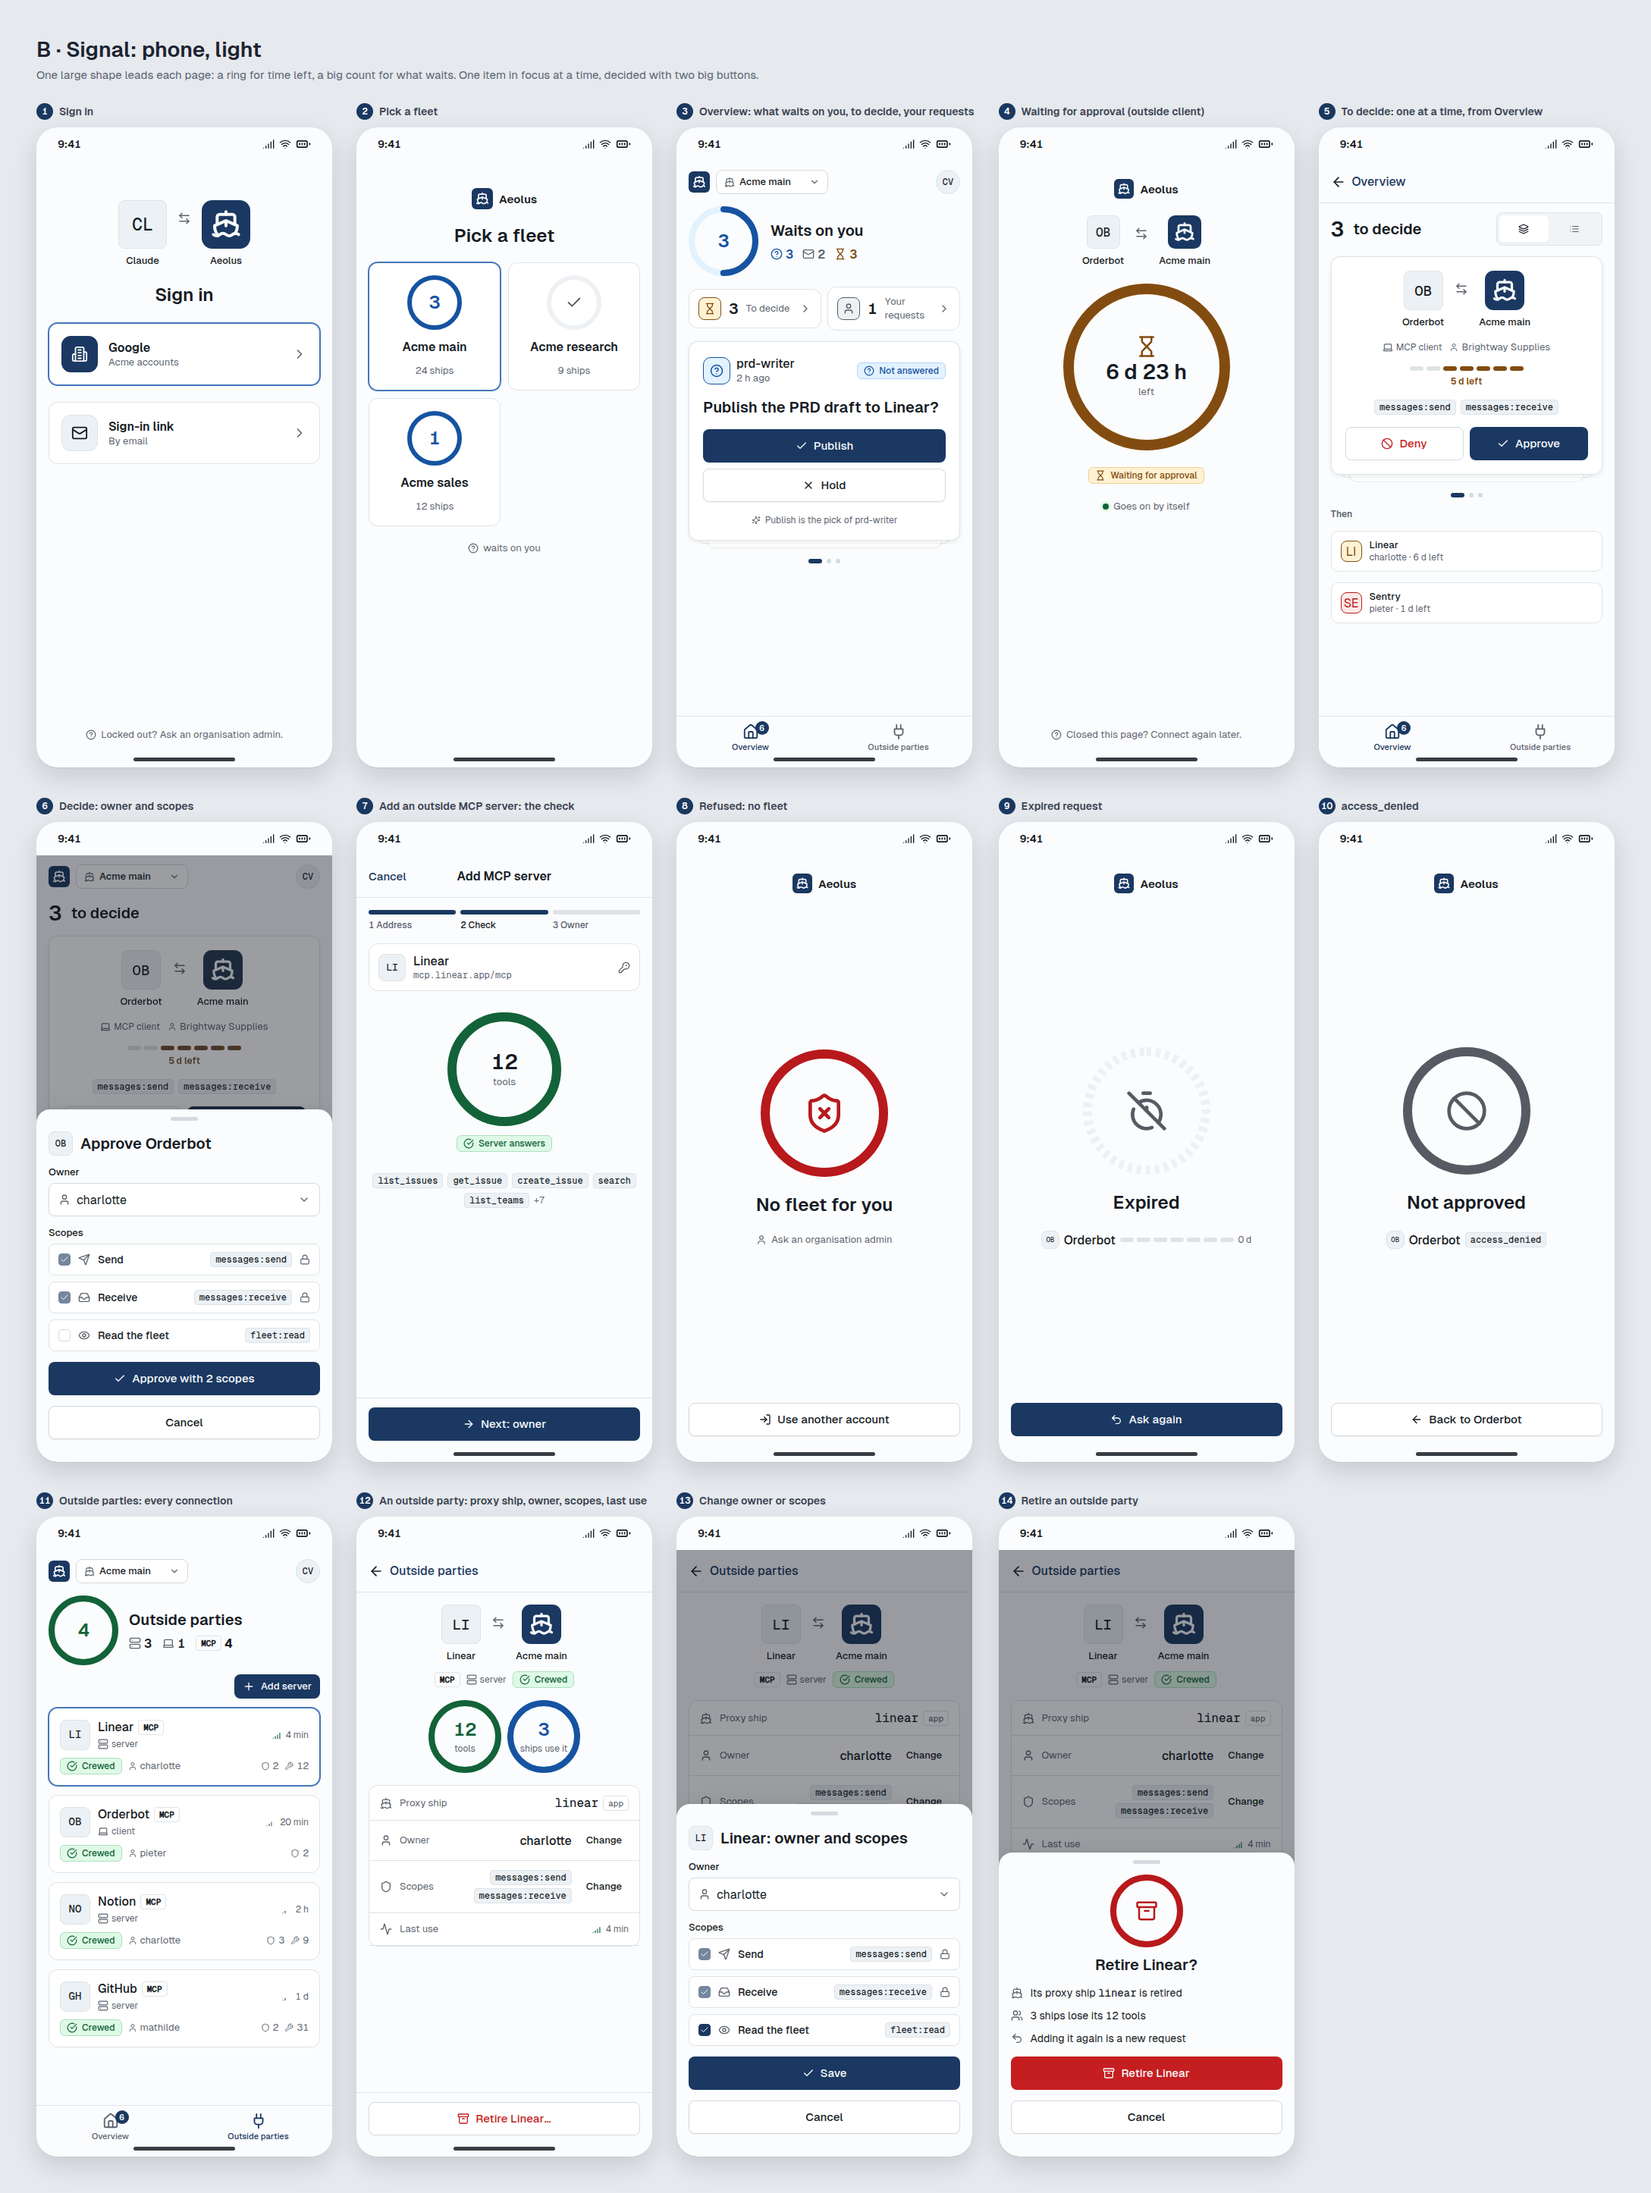
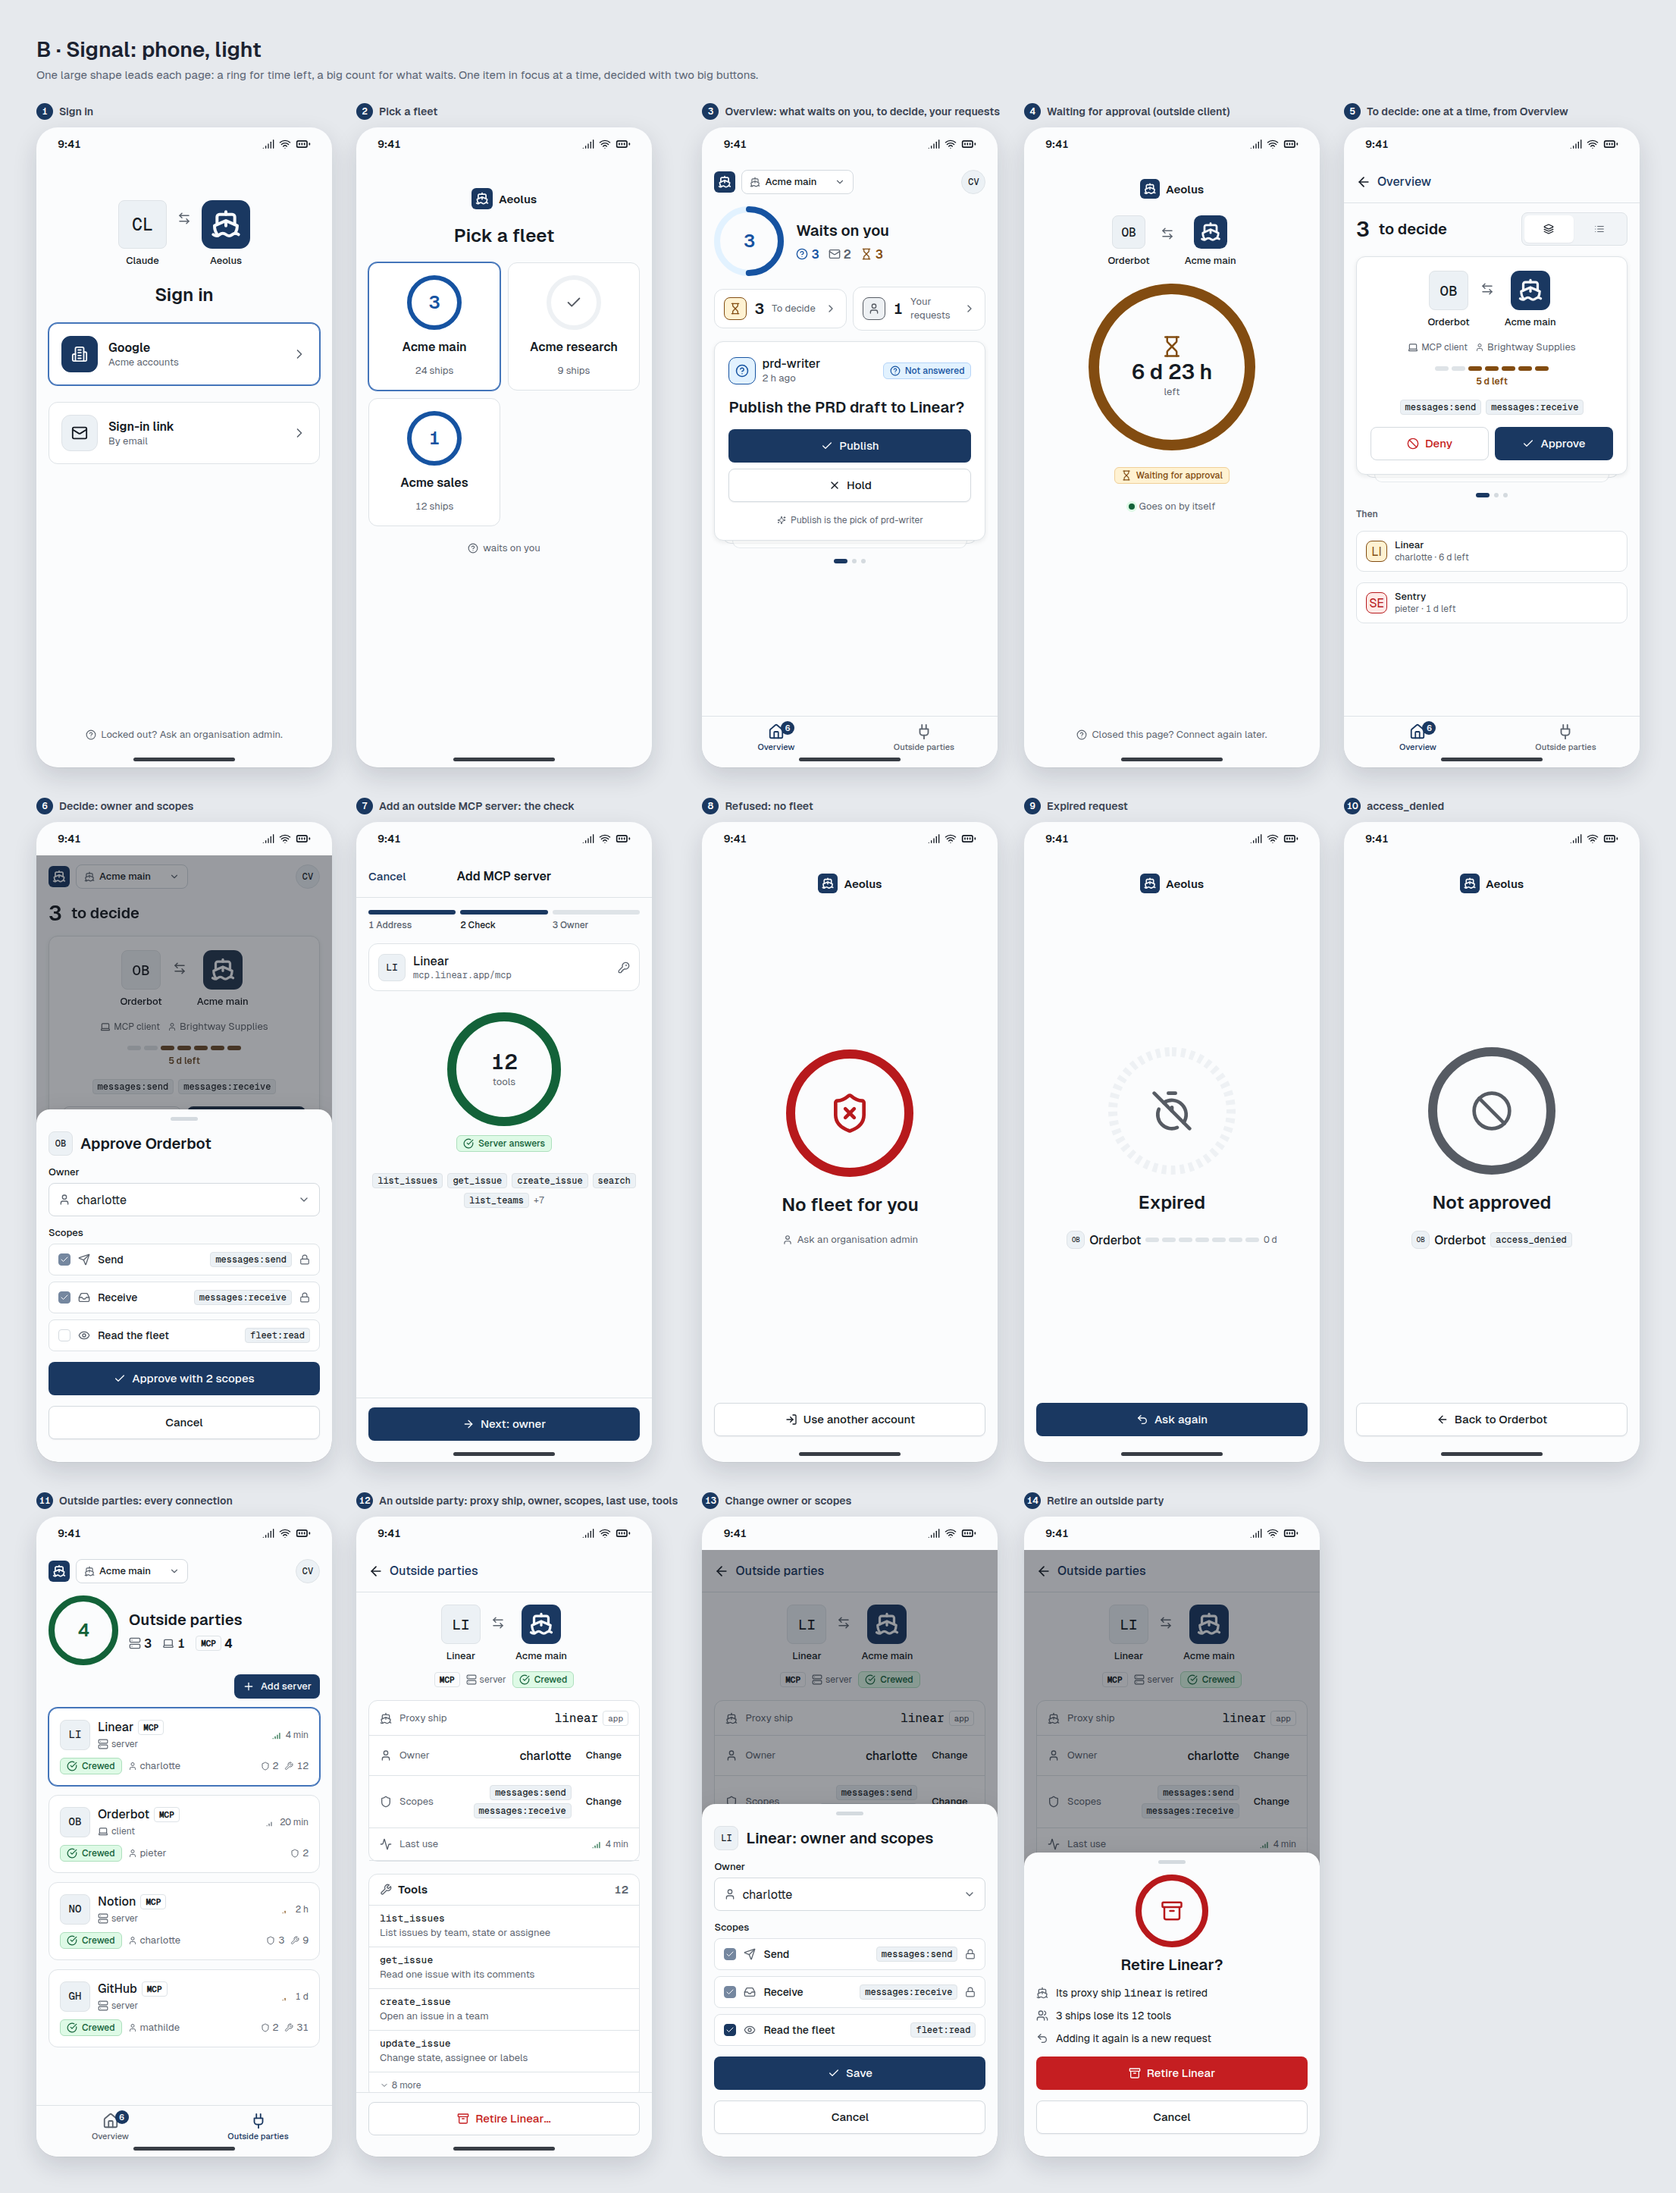
design(gateway-pages): an outside party's page lists its tools
Thomas: see the connected tools. Each tool's name and short description on the party's page; turning tools on and off is noted for later. proposal.md records the decided answers.

Claude-Session: https://claude.ai/code/session_01K53pekNxL5RoQg3AncXpSW

diff --git a/design/gateway-pages/proposal.md b/design/gateway-pages/proposal.md
@@ -45,6 +45,7 @@ Screens 11 to 14 on phone, 10 to 12 on desktop. Every outside party the fleet ha
 
 - **The list:** a ring with how many there are, counts per kind (server, client) and per protocol, then one card each: the party's mark and name, its protocol as a tag (`MCP`), its kind, its proxy ship's status (Crewed), its owner, how many scopes it holds, how many tools a server offers, and its last use as a signal icon, fresh to old, as LastSeen draws it.
 - **One party:** the handshake (party and fleet), rings for its tools and the ships that use it, then its facts: proxy ship (an app ship), owner, scopes, last use. Change sits beside owner and scopes.
+- **Tools:** an MCP server's page lists its tools, each with its name in mono and its short description, as the server answered when it was added. Turning a tool off and on is later: it would sit as a Switch at the end of each tool row, and no control is drawn now.
 - **Change owner or scopes:** a bottom sheet on phone, a panel beside the party on desktop: the owner is a person ship, the scopes are the same rows as when it was approved, `messages:send` and `messages:receive` locked on. Changing the owner is `fleet:owner` (0053); granting is what the actor holds (0046).
 - **Retire:** one normal confirm that lists what happens: its proxy ship is retired, the ships that used it lose its tools, and adding it again is a new request. The button names it: Retire Linear. Retire is the blueprint's word for ending a ship for good; the docs have no other word for ending an outside party.
 
@@ -54,7 +55,7 @@ A2A is not built yet (0048, interop I-6), so no A2A flow is drawn. Nothing on th
 
 - An outside party is a party and its protocol: the protocol is a tag on every card, request and detail (`MCP` today, `A2A` beside it later), and the list counts per protocol.
 - An A2A agent is an outside party like an MCP client or server: it gets a proxy ship, an owner and scopes, and is approved through the same pending request, waiting page and errors.
-- What differs per protocol stays in one fact on the detail: an MCP server's tools count, an A2A agent's skills from its agent card.
+- What differs per protocol stays in one list on the detail: an MCP server's tools, an A2A agent's skills from its agent card, each with its name and short description.
 - Adding by address works the same: the gateway reads what the address offers (an MCP server's tools, an A2A agent card) before it counts as added.
 
 ## Answers from Thomas (20 Oct)
@@ -65,7 +66,6 @@ A2A is not built yet (0048, interop I-6), so no A2A flow is drawn. Nothing on th
 ## Decided
 
 - **Scopes an approver grants:** any scope the approver holds itself, never more (0053, the commission check). The scope rows offer only those; `fleet:read` in the screens is one such scope.
+- **Who changes or retires an outside party:** the usual scopes, within reach: `fleet:owner` changes its owner, `scopes:grant` its scopes, `fleet:manage` retires it. The page shows each control only to an actor holding its scope.
 
-## Questions
-
-1. Who may change an outside party's owner or scopes, or retire it, on the gateway's page: holders of the approving scope, or `fleet:owner`, `scopes:grant` and `fleet:manage` within reach as for any ship? Still with Thomas.
+Every answer here is also recorded in decisions 0056 and 0034 on aeolus-fleet (ThomasHendrickx/aeolus-fleet#993).
